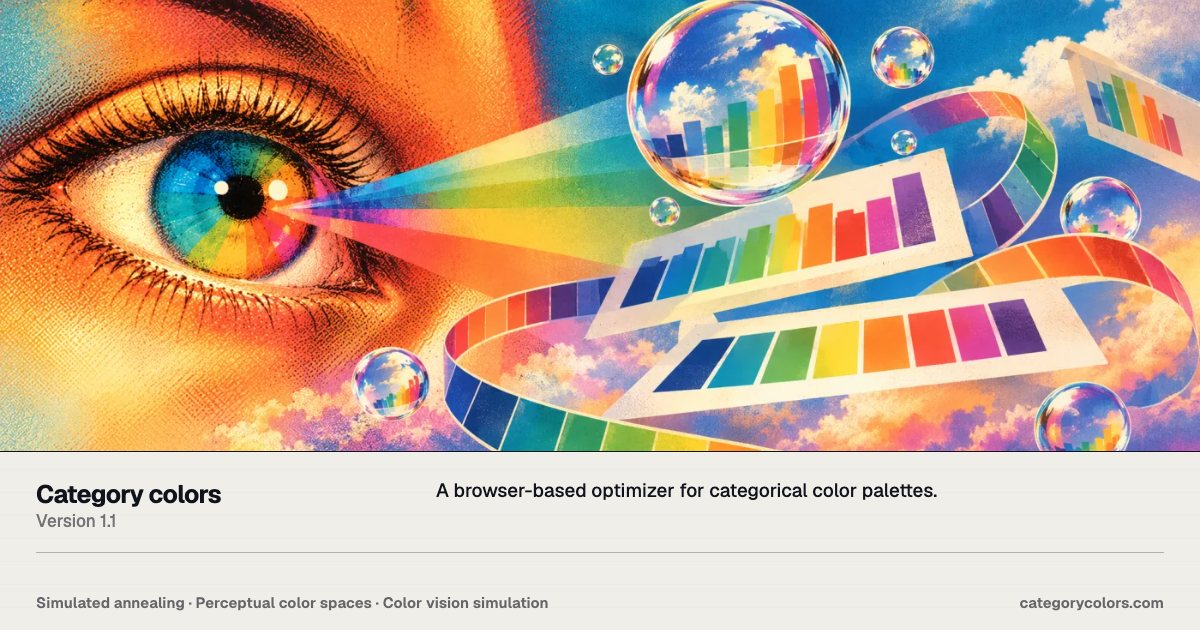
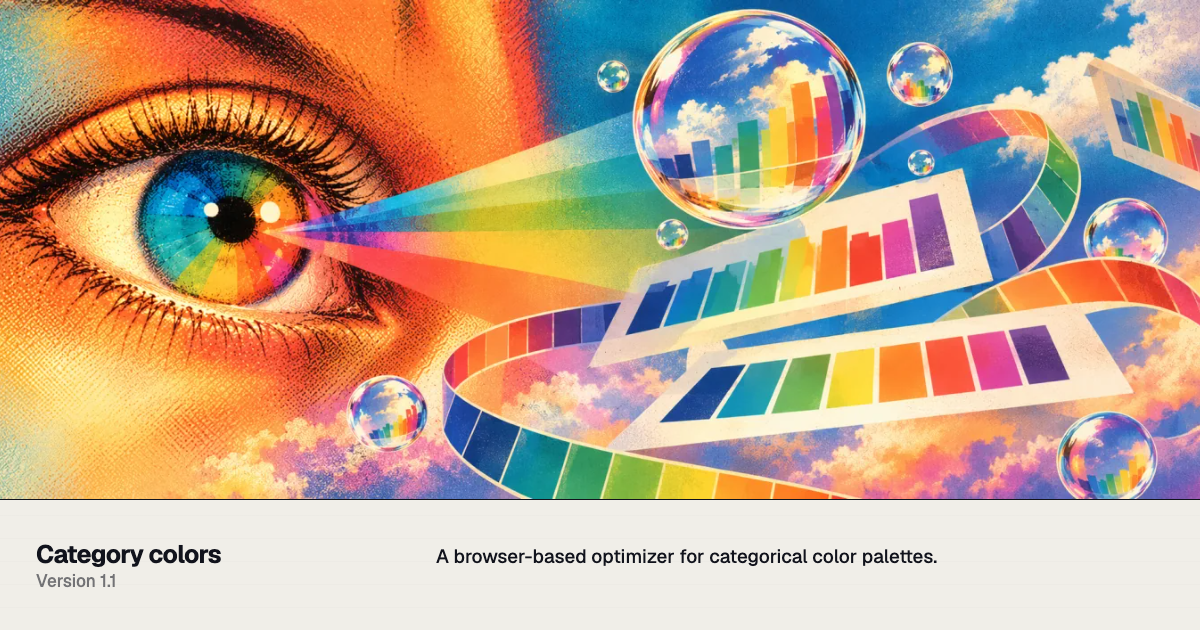
Drop the social card's foot line
The painting takes the height instead; the colophon keeps the title,
version and description.

diff --git a/scripts/og-card.html b/scripts/og-card.html
@@ -26,7 +26,7 @@
       .og {
         position: relative;
         display: grid;
-        grid-template-rows: 452px 178px;
+        grid-template-rows: 500px 130px;
         width: 1200px;
         height: 630px;
         overflow: hidden;
@@ -58,7 +58,8 @@
       .og-colophon {
         display: flex;
         flex-direction: column;
-        padding: 26px 36px 20px;
+        justify-content: center;
+        padding: 0 36px;
         background:
           repeating-linear-gradient(0deg, transparent 0 22px, rgb(17 19 28 / 0.027) 23px),
           #f0eee8;
@@ -68,8 +69,7 @@
         display: grid;
         grid-template-columns: 1fr 2fr;
         gap: 36px;
-        padding-bottom: 20px;
-        border-bottom: 1px solid rgb(17 19 28 / 0.28);
+        align-items: baseline;
       }
 
       .og-colophon-lead p {
@@ -96,22 +96,6 @@
         line-height: 1.35;
       }
 
-      .og-colophon-foot {
-        display: flex;
-        justify-content: space-between;
-        gap: 36px;
-        margin-top: auto;
-        padding-top: 16px;
-        color: rgb(17 19 28 / 0.62);
-        font-size: 15px;
-        font-variation-settings: 'wght' 620;
-        line-height: 1;
-        letter-spacing: 0.005em;
-      }
-
-      .og-colophon-foot p {
-        margin: 0;
-      }
     </style>
   </head>
   <body>
@@ -129,10 +113,6 @@
           <p class="og-description">
             A browser-based optimizer for categorical color palettes.
           </p>
-        </div>
-        <div class="og-colophon-foot">
-          <p>Simulated annealing · Perceptual color spaces · Color vision simulation</p>
-          <p>categorycolors.com</p>
         </div>
       </div>
     </div>
